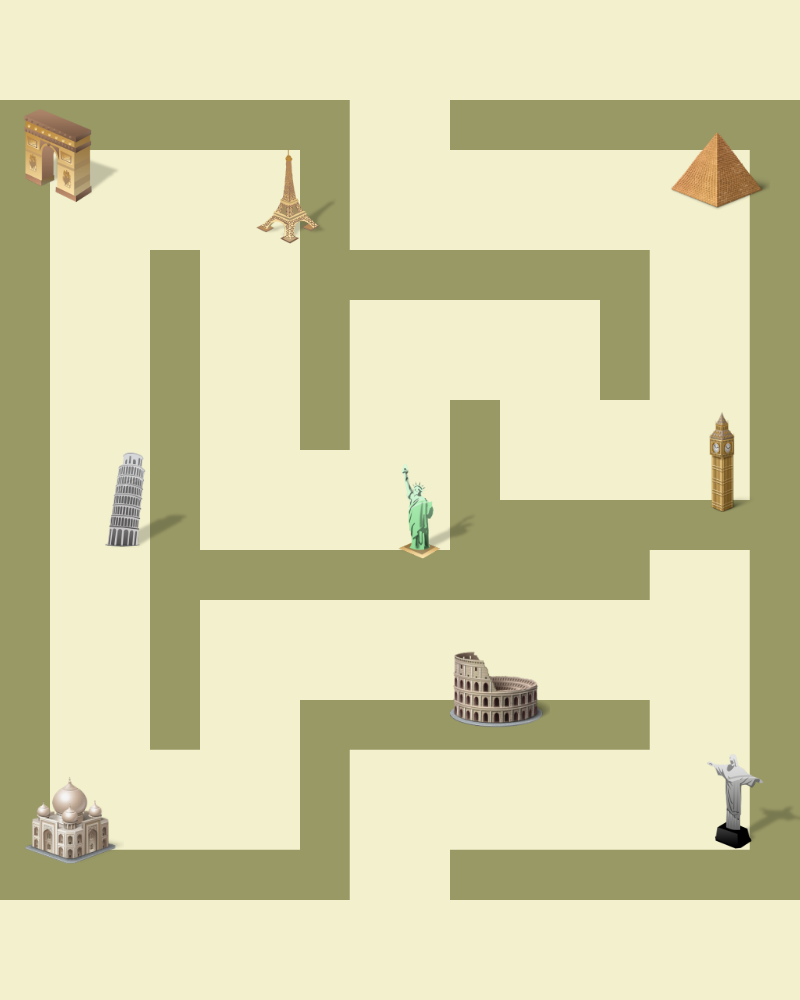
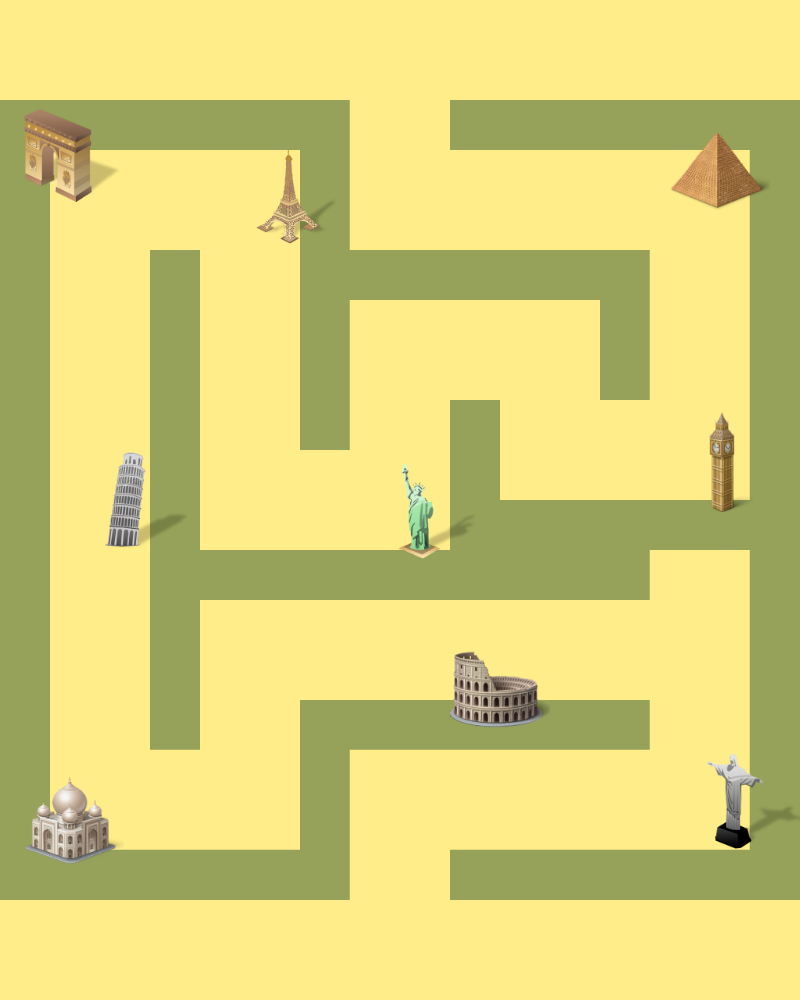
added some changes on labirinto app

diff --git a/src/hub/static/apps/labirinto-s/index.html b/src/hub/static/apps/labirinto-s/index.html
@@ -108,7 +108,7 @@
             var corBola = "#FF0000";
             var corRasto = "#0000FF";
             var grossRasto = 2;
-            var corFundo = "#f3f1cd";
+            var corFundo = "#ffed89";
             var corEixo = "darkred";
             var grossEixo = 5;
             var numColisoes;

diff --git a/src/hub/static/apps/atractor-apps-all/csss/labirinto.css b/src/hub/static/apps/atractor-apps-all/csss/labirinto.css
@@ -10,7 +10,7 @@ html, body {
     display: block;  /* No floating content on sides */
     font-family: "Comic Sans MS", cursive, sans-serif;
     font-size: 26;
-    background: #f3f1cd;
+    background: #ffed89;
 }
 
 .largerCheckbox {
